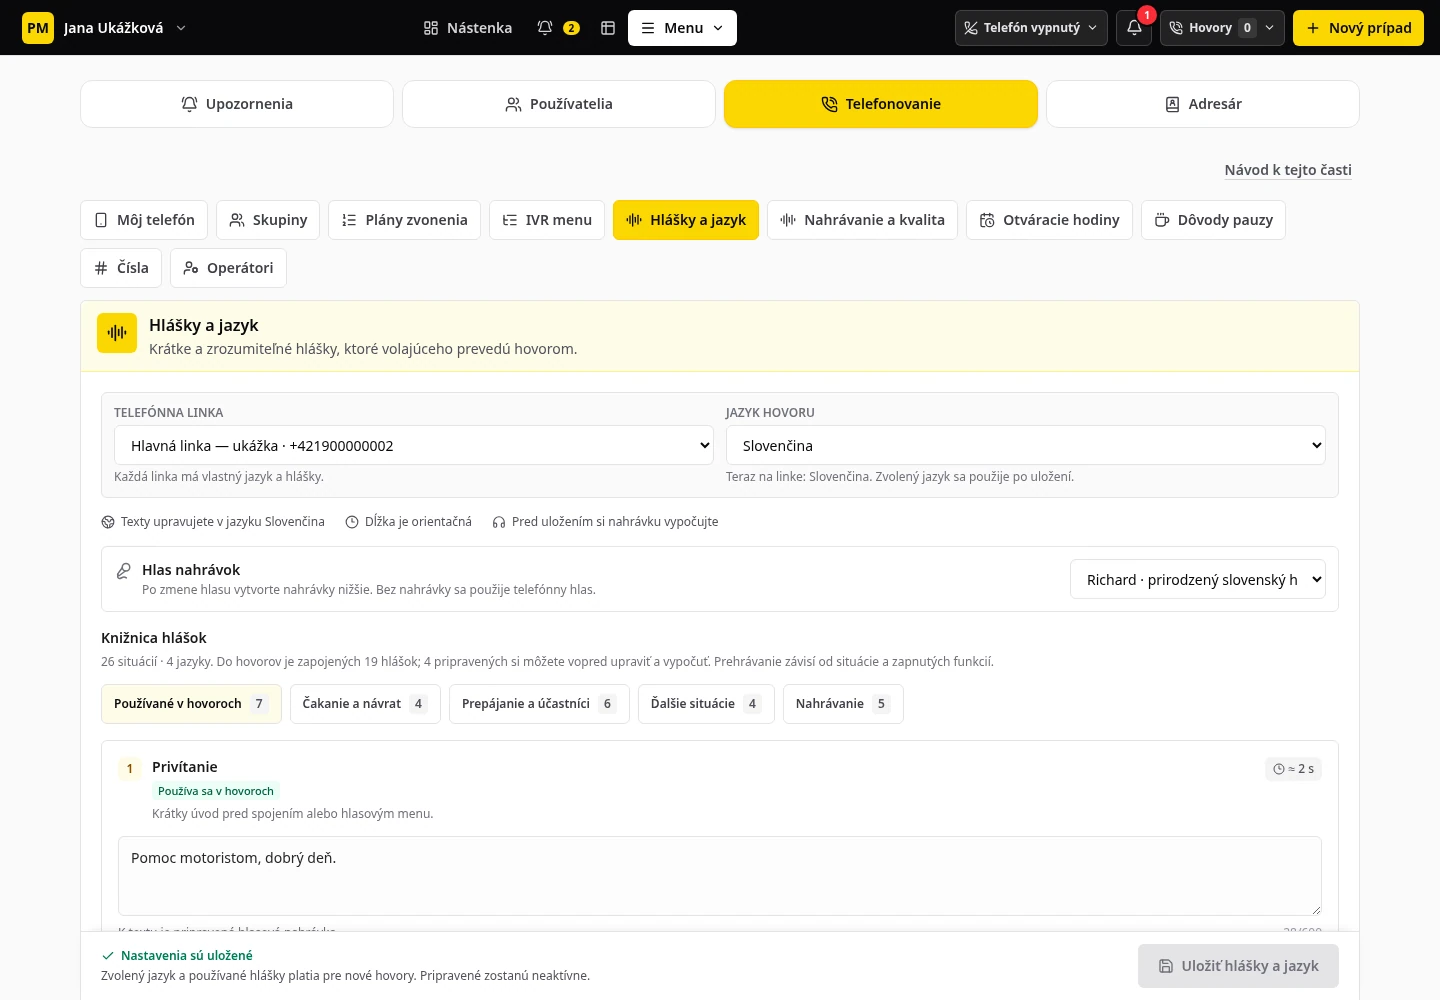
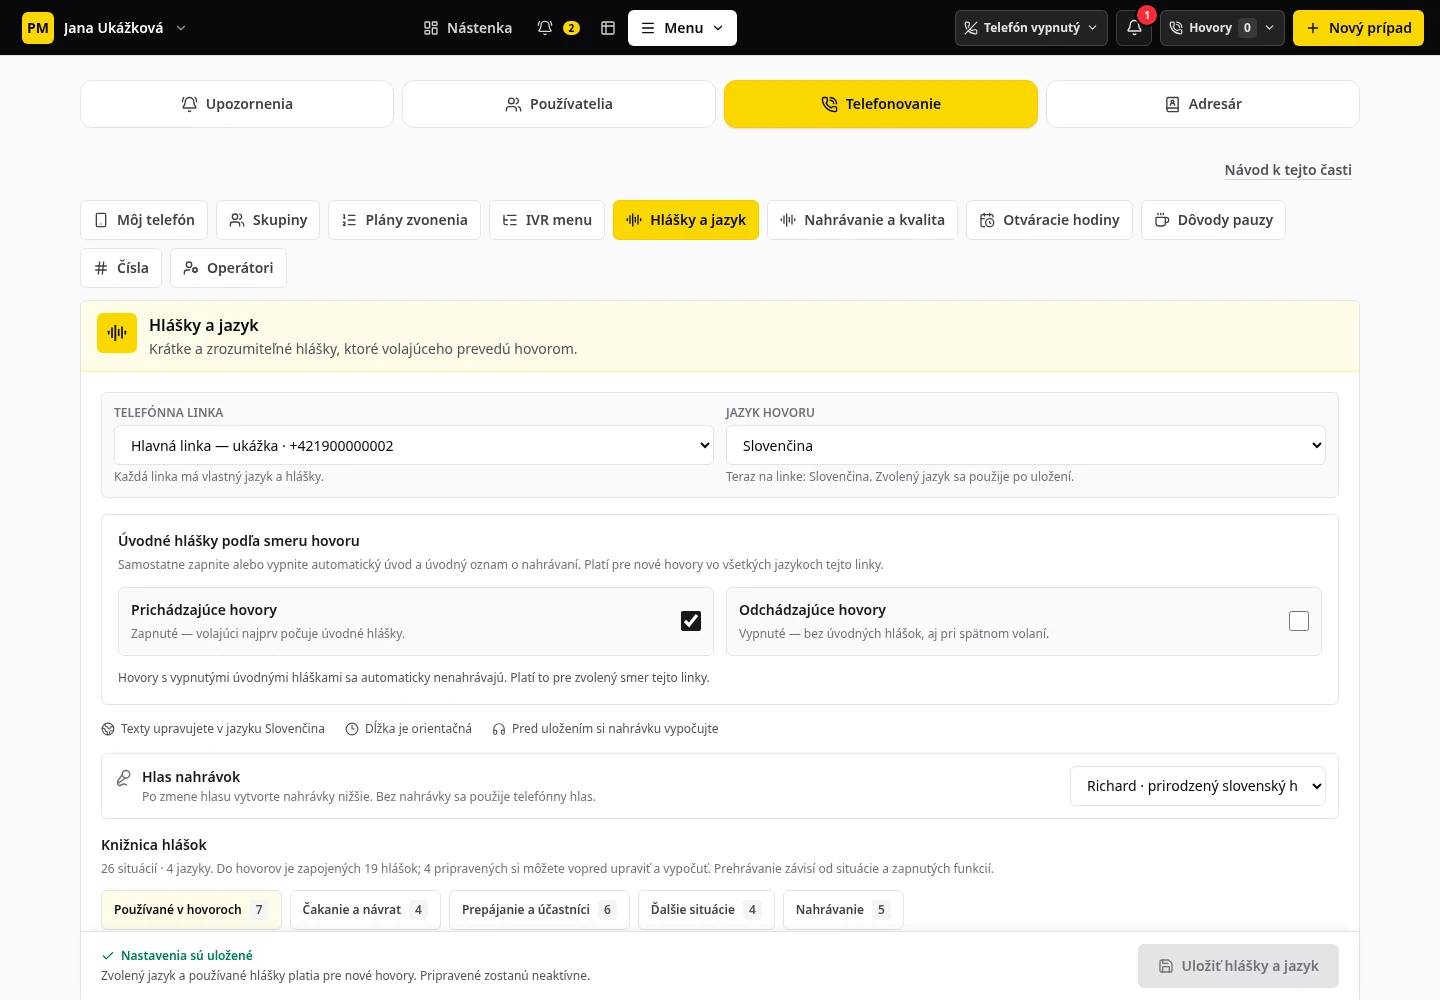
docs: align client guide with released call controls

diff --git a/src/content/guide/chapters.ts b/src/content/guide/chapters.ts
@@ -2,9 +2,9 @@ import type { GuideCategory, GuideChapter } from "./types";
 import { guideOperationsChapters } from "./operations";
 
 export const GUIDE_UPDATED_AT = "2026-09-11";
-export const GUIDE_CONTENT_VERSION = "1.0.0";
+export const GUIDE_CONTENT_VERSION = "1.0.1";
 // Application revision used to verify the documented behavior, not a live-state revision.
-export const GUIDE_SOURCE_REVISION = "518e9883a690b6428f8ba9f26d895552be6848cf";
+export const GUIDE_SOURCE_REVISION = "71fa9f81d3e0790e6f78283c8a4793913ab450e5";
 
 export const guideCategories: GuideCategory[] = [
   { id: "zaciname", title: "Začíname", description: "Prvý prístup, orientácia a pripravené pracovisko.", icon: "start" },
@@ -85,7 +85,7 @@ export const guideChapters: GuideChapter[] = [
     ], related: ["moj-telefon", "prijatie-a-zacatie-hovoru", "riesenie-problemov"], sources: ["src/components/dispatch/HeaderPhoneStatusMenu.tsx", "src/components/dispatch/MyPhonePanel.tsx", "src/components/dispatch/HeaderNotificationMenu.tsx", "src/components/dispatch/AttendanceModule.tsx"],
   },
   {
-    slug: "prijatie-a-zacatie-hovoru", title: "Prijatie a začatie hovoru", description: "Prijmite klienta, zavolajte z aplikácie a priraďte rozhovor k správnemu prípadu.", categoryId: "telefonovanie", audience: "all", minutes: 5,
+    slug: "prijatie-a-zacatie-hovoru", title: "Prijatie a začatie hovoru", description: "Prijmite klienta, zavolajte z aplikácie a priraďte rozhovor k správnemu prípadu.", categoryId: "telefonovanie", audience: "all", minutes: 6,
     keywords: ["prichádzajúci", "odchádzajúci", "prijať", "odmietnuť", "vytáčanie", "zavolať", "linka", "priradenie hovoru"], prerequisites: ["Telefón je pripravený na zvolený spôsob prijímania.", "Na automatické prichádzajúce ponuky ste Dostupný."],
     sections: [
       { id: "prichadzajuci-hovor", title: "Keď vám zvoní telefón", steps: [
@@ -97,14 +97,15 @@ export const guideChapters: GuideChapter[] = [
       { id: "odchadzajuci-hovor", title: "Ako zavolať klientovi", steps: [
         { id: "overit-ciel", title: "Vyberte správne telefónne číslo", text: "Použite volanie pri kontakte v prípade alebo adresári, prípadne zadajte číslo v telefóne. Pri viacerých kontaktoch overte, komu voláte. Pri ručnom zadaní použite aj medzinárodnú predvoľbu." },
         { id: "overit-linku", title: "Skontrolujte odchádzajúcu linku", text: "Pred volaním overte, z ktorého pracovného čísla voláte. Predvolenú Odchádzajúcu linku nastavíte v Môj telefón; toto číslo sa zobrazuje volanému." },
-        { id: "zavolat", title: "Spustite volanie a počkajte", text: "Stlačte volanie raz a sledujte jeho stav. Opätovným klikaním počas vytáčania neurychlíte spojenie. Pri odchádzajúcom aj spätnom hovore sa klientovi predstavte sami: automatický úvod sa neprehráva. Pri zapnutom nahrávaní môže pred rozhovorom zaznieť príslušný oznam o nahrávaní.", result: "Po prijatí druhou stranou sa zobrazuje aktívny hovor. Neúspešný pokus nie je potvrdením kontaktovania klienta." },
+        { id: "zavolat", title: "Spustite volanie a počkajte", text: "Stlačte volanie raz a sledujte jeho stav. Opätovným klikaním počas vytáčania neurýchlite spojenie. Pri odchádzajúcom aj spätnom hovore sa klientovi predstavte sami. Predvolene sú odchádzajúce úvodné hlášky vypnuté: neprehrá sa predstavenie ani oznam o nahrávaní a hovor sa automaticky nenahráva. Ak správca pre túto linku úvod zapol, po prijatí zaznie predstavenie a pri povolenom nahrávaní aj príslušný oznam.", result: "Po prijatí klientom a potvrdení zvukového spojenia začne rozhovor. Neúspešný pokus nie je potvrdením kontaktovania klienta." },
       ] },
+      { id: "priebeh-spojenia", title: "Vytáčanie a rozhovor majú odlišný čas", paragraphs: ["Pri odchádzajúcom hovore môže aplikácia postupne ukázať Pripájam telefón…, Vytáčam a Pripája sa zvuk…. Tieto stavy ešte nepotvrdzujú rozhovor s klientom. Aj Čakám na spojenie hovoru… znamená, že spojenie s druhou stranou zatiaľ nie je potvrdené.", "Čas pri hovore najprv meria pripájanie, vytáčanie alebo čakanie. Dĺžka rozhovoru sa počíta od potvrdeného spojenia zvuku medzi vami a klientom; pri prechode preto môže začať od nuly. Bežiaci čas pred spojením neznamená, že vás klient už počuje."], note: { tone: "info", title: "Sledujte stav aj zvuk", text: "Pri hláške Spojenie zvuku nepotvrdené nepovažujte klienta za úspešne kontaktovaného. Overte, či sa počujete, a výsledok zaznamenajte podľa skutočného priebehu." } },
       { id: "hovor-a-pripad", title: "Prepojte rozhovor s prípadom", steps: [
         { id: "najst-kartu", title: "Otvorte existujúci prípad alebo vytvorte nový", text: "Najprv overte, či už prípad existuje. Pri novej požiadavke použite vytvorenie prípadu z hovoru alebo Nový prípad." },
         { id: "priradit-hovor", title: "Potvrďte Priradiť k prípadu", text: "V sekcii Priradiť prichádzajúci hovor vyberte správny hovor a potvrďte priradenie. Samotná zhoda telefónneho čísla ho k otvorenej karte automaticky nepripojí.", result: "Hovor sa eviduje pri zvolenom prípade. Ak tlačidlo ešte čaká na zápis hovoru, chvíľu počkajte na sprístupnenie." },
       ], screenshotIds: ["case-detail"] },
       { id: "ukoncit-hovor", title: "Ukončite rozhovor a doplňte výsledok", paragraphs: ["Zhrňte dohodu a použite Zavesiť. Do prípadu alebo úlohy zapíšte výsledok a ďalší krok. Ak začne dopisovanie, dokončite záznam v tomto čase. Zavretie karty prípadu ani prepnutie obrazovky nenahrádza ukončenie hovoru."] },
-    ], related: ["pocas-hovoru", "pripad", "spatne-hovory"], sources: ["src/components/dispatch/PhoneBar.tsx", "src/components/dispatch/phone-bar-model.ts", "src/components/dispatch/CaseDetail.tsx", "src/components/dispatch/DispatchConsole.tsx", "src/components/dispatch/MyPhonePanel.tsx"],
+    ], related: ["pocas-hovoru", "pripad", "spatne-hovory", "hlasky-a-nahravanie"], sources: ["src/components/dispatch/PhoneBar.tsx", "src/components/dispatch/phone-bar-model.ts", "src/components/dispatch/CaseDetail.tsx", "src/components/dispatch/DispatchConsole.tsx", "src/components/dispatch/MyPhonePanel.tsx", "src/lib/telephony/active-calls-model.ts", "src/lib/telephony/announcements.ts", "src/server/telephony/active-calls.ts", "src/server/telephony/state/recording.ts"],
   },
   {
     slug: "pocas-hovoru", title: "Čo možno robiť počas hovoru", description: "Rozdiel medzi mikrofónom, podržaním, čakárňou a prepojením kolegovi.", categoryId: "telefonovanie", audience: "all", minutes: 7,
@@ -156,13 +157,13 @@ export const guideChapters: GuideChapter[] = [
         { id: "prevziat-poziadavku", title: "Stlačte Prevziať", text: "Tým oznámite, že sa požiadavke venujete vy.", result: "Požiadavka je prevzatá a zobrazuje sa zodpovednosť. Táto akcia ešte nevytáča telefónne číslo." },
       ] },
       { id: "kontaktovat-klienta", title: "Zavolajte a zaznamenajte výsledok", steps: [
-        { id: "zavolat-spat", title: "Stlačte Zavolať", text: "Overte cieľ a sledujte vytáčanie. Ak systém ponúkne overené náhradné číslo, prečítajte si pôvodné aj náhradné číslo a potvrďte iba správny kontakt." },
+        { id: "zavolat-spat", title: "Stlačte Zavolať", text: "Overte cieľ a sledujte vytáčanie. Ak systém ponúkne overené náhradné číslo, prečítajte si pôvodné aj náhradné číslo a potvrďte iba správny kontakt. Spätné volanie používa odchádzajúce hlášky zvolenej linky: predvolene je úvod aj automatické nahrávanie vypnuté. Po spojení sa klientovi predstavte." },
         { id: "zapisat-vysledok", title: "Zapíšte výsledok rozhovoru", text: "Do prípadu alebo úlohy zaznamenajte, čo klient potrebuje a čo ste dohodli. Pri neúspešnom pokuse zachovajte potrebu ďalšieho kontaktu a dohodnite termín opakovania." },
         { id: "oznacit-vybavene", title: "Po dokončení zvoľte Vybavené", text: "Vybavenie potvrďte až po tom, čo je požiadavka vyriešená.", result: "Požiadavka sa uzavrie. Samotné začatie volania nie je dôkazom, že ste klienta zastihli alebo mu zabezpečili pomoc." },
       ] },
       { id: "zrusit-alebo-nechat", title: "Kedy použiť Zrušiť", paragraphs: ["Zrušiť použite pre požiadavku, ktorú už netreba vybavovať, napríklad po overení duplicity alebo po potvrdení, že klient pomoc nepotrebuje. Dôvod zapíšte k príslušnej práci, aby ďalšia služba vedela, prečo sa už nevolá.", "Ak požiadavku prevzal kolega, rešpektujte uvedenú zodpovednosť. Pri potrebe odovzdania sa dohodnite; nepovažujte sivé tlačidlo za chybu len preto, že práve nemôžete zasiahnuť do cudzej položky."] },
       { id: "nepouzitelne-cislo", title: "Neznáme alebo nepoužiteľné číslo", paragraphs: ["Na skryté, neúplné alebo jednosmerné číslo sa nemusí dať zavolať späť. Aplikácia môže volanie zablokovať a vyžiadať overený náhradný kontakt. Číslo nedopĺňajte odhadom.", "Overený náhradný kontakt sa potvrdzuje pred volaním. Pôvodné číslo zostáva v histórii. Ak sa správny kontakt nedá získať, zaznamenajte túto prekážku a odovzdajte požiadavku podľa pravidiel prevádzky." ] },
-    ], related: ["cakaren", "prijatie-a-zacatie-hovoru", "ulohy-a-poznamky"], sources: ["src/components/dispatch/CallbackQueuePanel.tsx", "src/lib/telephony/callback-target-client.ts", "src/lib/telephony/callback-queue.ts"],
+    ], related: ["cakaren", "prijatie-a-zacatie-hovoru", "ulohy-a-poznamky"], sources: ["src/components/dispatch/CallbackQueuePanel.tsx", "src/lib/telephony/callback-target-client.ts", "src/lib/telephony/callback-queue.ts", "src/lib/telephony/announcements.ts", "src/server/telephony/state/recording.ts"],
   },
   {
     slug: "pauza-a-zastupovanie", title: "Pauza, zastupovanie a dopisovanie", description: "Odíďte na prestávku so správnym zastupovaním a po návrate sa vedome sprístupnite.", categoryId: "telefonovanie", audience: "all", minutes: 6,
@@ -361,14 +362,15 @@ export const guideChapters: GuideChapter[] = [
     ], related: ["cesta-hovoru", "plany-zvonenia", "hlasky-a-nahravanie", "spatne-hovory"], sources: ["src/components/dispatch/settings/NumbersPanel.tsx", "src/components/dispatch/settings/BusinessHoursEditor.tsx", "src/components/dispatch/settings/business-hours-model.ts", "src/components/dispatch/settings/IvrMenuEditor.tsx", "src/components/dispatch/settings/ivr-menu-model.ts", "src/server/telephony/state/transitions.ts"],
   },
   {
-    slug: "hlasky-a-nahravanie", title: "Hlášky, jazyk a nahrávanie", description: "Upravte to, čo klient počuje, a rozlíšte oznámenie od skutočného zapnutia nahrávania.", categoryId: "nastavenia", audience: "manager", minutes: 7,
-    keywords: ["hlášky", "jazyk", "hlas", "nahrávka", "nahrávanie", "prepis", "kvalita", "oznámenie", "hudba"], prerequisites: ["Rola Manažér alebo Admin na ukladanie zmien.", "Vybraná telefónna linka a dohodnuté znenie hlášok.", "Pri nastavení nahrávania údaje a rozhodnutia prevádzkovateľa požadované formulárom."],
+    slug: "hlasky-a-nahravanie", title: "Hlášky, jazyk a nahrávanie", description: "Upravte to, čo klient počuje, a rozlíšte oznámenie od skutočného zapnutia nahrávania.", categoryId: "nastavenia", audience: "manager", minutes: 8,
+    keywords: ["hlášky", "jazyk", "hlas", "nahrávka", "nahrávanie", "prepis", "kvalita", "oznámenie", "hudba", "úvod", "prichádzajúce", "odchádzajúce", "spätné volanie"], prerequisites: ["Rola Manažér alebo Admin na ukladanie zmien.", "Vybraná telefónna linka a dohodnuté znenie hlášok.", "Pri nastavení nahrávania údaje a rozhodnutia prevádzkovateľa požadované formulárom."],
     sections: [
       { id: "upravit-hlasky", title: "Vyberte linku a jazyk", steps: [
         { id: "otvorit-hlasky", title: "Otvorte Nastavenia → Telefonovanie → Hlášky a jazyk", text: "Vyberte Telefónna linka. Každá linka má vlastné hlášky a jazyk; pri návrate na hlavnú linku skontrolujte aj jej nastavenie." },
         { id: "vybrat-jazyk", title: "Vyberte Jazyk hovoru", text: "Rozhranie uvádza, ktorý jazyk je práve uložený a v ktorom jazyku upravujete texty. Dostupné sú slovenčina, čeština, angličtina a nemčina." },
         { id: "upravit-text-hlasky", title: "Nájdite situáciu v Knižnica hlášok", text: "Upravte text pre danú situáciu. Píšte stručne a povedzte klientovi konkrétnu možnosť: čakať, zvoliť klávesu alebo očakávať spätný hovor. Čísla a sľuby musia zodpovedať nastaveniu." },
       ], screenshotIds: ["announcements"] },
+      { id: "uvodne-hlasky-podla-smeru", title: "Úvod nastavte zvlášť pre každý smer hovoru", paragraphs: ["V časti Úvodné hlášky podľa smeru hovoru sú dva nezávislé prepínače. Platí vždy uložená voľba konkrétnej linky; predvolené hodnoty v tabuľke nemusia byť vaším aktuálnym nastavením."], table: { headers: ["Prepínač", "Predvolene", "Čo ovláda"], rows: [["Prichádzajúce hovory", "Zapnuté", "Privítanie klienta a pri povolenom nahrávaní oznam pred záznamom."], ["Odchádzajúce hovory", "Vypnuté", "Predstavenie služby a prípadný oznam o nahrávaní po prijatí. Platí aj pre spätné volania."]] }, bullets: ["Vypnutý úvod znamená, že sa v danom smere neprehrá predstavenie ani úvodný oznam a nové hovory sa automaticky nenahrávajú, aj keď Nahrávanie a kvalita daný smer povoľuje.", "Zapnutý úvod umožní príslušné hlášky. Na automatické nahrávanie treba zároveň povolenie a pripravenosť v Nahrávanie a kvalita a dokončený oznam pred záznamom.", "Prepínače sú spoločné pre všetky jazyky vybranej linky. Nemenia IVR, hudbu pri čakaní a podržaní ani oznamy pri prepájaní a zmene účastníkov.", "Zmenu potvrďte cez Uložiť hlášky a jazyk. Použije sa na nové hovory; prebiehajúci hovor pokračuje s nastavením zo svojho začiatku."], note: { tone: "important", title: "Vypnutím úvodu meníte aj automatické nahrávanie", text: "Pred zmenou overte požadovaný postup prevádzky. Ak potrebujete automatický záznam odchádzajúcich alebo spätných hovorov, nestačí povoliť ich nahrávanie: na danej linke musí byť zapnutý aj odchádzajúci úvod." } },
       { id: "vypocut-a-ulozit", title: "Vypočujte náhľad a uložte výsledok", steps: [
         { id: "vytvorit-hlas", title: "Podľa dostupnosti vytvorte hlasovú nahrávku", text: "Ak je generovanie pripojené, použite ovládanie pri hláške. Po zmene hlasu treba vytvoriť nahrávky znova. Ak generovanie nie je dostupné, používané texty bez nahrávky prečíta telefónny hlas." },
         { id: "vypocut-hlasku", title: "Použite Vypočuť hlášku", text: "Overte výslovnosť, jazyk, zrozumiteľnosť a správne klávesy. Dĺžka uvedená v rozhraní je orientačná." },
@@ -376,12 +378,12 @@ export const guideChapters: GuideChapter[] = [
       ] },
       { id: "pripravena-hlaska", title: "Pripravená hláška ešte nemusí zaznieť", paragraphs: ["Knižnica rozlišuje hlášky zapojené do hovorov a pripravené hlášky. Pripravenú hlášku môžete upraviť, vypočuť a uložiť vopred; tým sa jej použitie v hovore samo nezapne.", "Rovnako uloženie textu „hovor je nahrávaný“ nezapína nahrávanie. Prehrávanie závisí od situácie, povolených funkcií a nastavenia. Po uložení skúšajte konkrétnu vetvu hovoru, v ktorej má daná hláška zaznieť."] },
       { id: "politika-nahravania", title: "Skutočné nahrávanie nastavujete osobitne", paragraphs: ["Nastavenia → Telefonovanie → Nahrávanie a kvalita určuje, či sa hovory nahrávajú a či sa pripravuje prepis, AI súhrn alebo návrh hodnotenia. Táto časť ukazuje aj Pripravenosť zapojenia; uložená voľba nemusí znamenať, že je všetko technicky pripravené."], steps: [
-        { id: "vybrat-rozsah-nahravania", title: "Skontrolujte rozsah", text: "Podľa schváleného postupu prevádzky nastavte Nahrávať hovory a rozsah Prichádzajúce hovory / Odchádzajúce hovory. Prepis potrebuje nahrávanie, AI súhrn prepis a návrh hodnotenia AI analýzu." },
+        { id: "vybrat-rozsah-nahravania", title: "Skontrolujte rozsah", text: "Podľa schváleného postupu prevádzky nastavte Nahrávať hovory a rozsah Prichádzajúce hovory / Odchádzajúce hovory. Na každej používanej linke zároveň skontrolujte úvodné hlášky pre príslušný smer: vypnutý úvod blokuje automatické nahrávanie nových hovorov. Prepis potrebuje nahrávanie, AI súhrn prepis a návrh hodnotenia AI analýzu." },
         { id: "doplnit-udaje-nahravania", title: "Vyplňte údaje prevádzkovateľa a uchovanie", text: "Doplňte požadované kontakty, informácie pre účastníkov, účely a lehoty podľa rozhodnutia prevádzkovateľa. Vzorové texty nenahrádzajú jeho vlastné údaje." },
         { id: "ulozit-nahravanie", title: "Prečítajte požadované potvrdenie a uložte", text: "Skontrolujte súlad s hláškami linky. Ak je všetko pripravené a formulár vyžaduje potvrdenie správnosti, potvrďte ho a použite Uložiť nahrávanie a kvalitu.", result: "Rozhranie zobrazí uloženú verziu alebo dôvod, prečo zmena nemôže byť použitá." },
       ], screenshotIds: ["recording"] },
-      { id: "nahravanie-v-hovore", title: "Čo sledovať pri konkrétnom hovore", paragraphs: ["Pri hovore sledujte zobrazený stav nahrávania a dostupné ovládanie. Chýbajúca nahrávka môže súvisieť s rozsahom, pripravenosťou, konkrétnym priebehom alebo limitom; z textu hlášky ju nemožno vyvodiť.", "V Hlášky a jazyk je aj prepínač Hlášky o zmenách nahrávania pre oznámenie vypnutia a obnovenia. Jeho vypnutie samo nevypína úvodný oznam ani politiku nahrávania.", "Vypnutie nového nahrávania neodstraňuje staršie záznamy. Ich dostupnosť riadia oprávnenia a uchovanie. Prepis, súhrn a návrh hodnotenia treba posúdiť v kontexte hovoru; automatický návrh nie je konečné rozhodnutie o práci operátora."] },
-    ], related: ["cisla-hodiny-a-ivr", "plany-zvonenia", "reporty-a-pouzivatelia"], sources: ["src/components/dispatch/settings/AnnouncementsPanel.tsx", "src/components/dispatch/settings/RecordingPolicyPanel.tsx", "src/components/dispatch/PhoneBar.tsx", "src/components/dispatch/settings/announcements-model.ts"],
+      { id: "nahravanie-v-hovore", title: "Čo sledovať pri konkrétnom hovore", paragraphs: ["Pri hovore sledujte zobrazený stav nahrávania a dostupné ovládanie. Chýbajúca nahrávka môže súvisieť s vypnutým úvodom daného smeru, rozsahom, pripravenosťou, konkrétnym priebehom alebo limitom; z textu hlášky ju nemožno vyvodiť.", "V Hlášky a jazyk je aj samostatný prepínač Hlášky o zmenách nahrávania pre oznámenie vypnutia a obnovenia. Tento prepínač riadi iba stavové oznámenia. Úvodný oznam a možnosť automatického záznamu závisia aj od prepínača smeru hovoru opísaného vyššie.", "Vypnutie nového nahrávania neodstraňuje staršie záznamy. Ich dostupnosť riadia oprávnenia a uchovanie. Prepis, súhrn a návrh hodnotenia treba posúdiť v kontexte hovoru; automatický návrh nie je konečné rozhodnutie o práci operátora."] },
+    ], related: ["cisla-hodiny-a-ivr", "plany-zvonenia", "reporty-a-pouzivatelia", "prijatie-a-zacatie-hovoru"], sources: ["src/components/dispatch/settings/AnnouncementsPanel.tsx", "src/components/dispatch/settings/RecordingPolicyPanel.tsx", "src/components/dispatch/PhoneBar.tsx", "src/components/dispatch/settings/announcements-model.ts", "src/lib/telephony/announcements.ts", "src/server/telephony/state/recording.ts"],
   },
   ...guideOperationsChapters,
 ];

diff --git a/docs/client-guide.md b/docs/client-guide.md
@@ -46,7 +46,7 @@ Obsah bol overený podľa zdrojového kódu a izolovaného rozhrania. Výroba pr
 
 ## Príprava pre AI pomocníka
 
-`buildGuideKnowledge` v `src/content/guide/knowledge.ts` vytvára 121 záznamov po sekciách z presne toho istého obsahu, ktorý čitateľ vidí. Každý záznam obsahuje stabilné ID, odkaz na sekciu, kroky s odkazmi, publikum, predpoklady, text, kľúčové slová a význam screenshotov. Celý dokument má verziu schémy a obsahu, dátum, revíziu overeného zdroja a `dataKind: documentation`.
+`buildGuideKnowledge` v `src/content/guide/knowledge.ts` vytvára 123 záznamov po sekciách z presne toho istého obsahu, ktorý čitateľ vidí. Každý záznam obsahuje stabilné ID, odkaz na sekciu, kroky s odkazmi, publikum, predpoklady, text, kľúčové slová a význam screenshotov. Celý dokument má verziu schémy a obsahu, dátum, revíziu overeného zdroja a `dataKind: documentation`.
 
 V aplikácii poskytuje tieto údaje autentifikované `GET /api/guide/knowledge` s `Cache-Control: private, no-store`. Samostatné vydanie obsahuje rovnaký export v `knowledge.json`. Hodnota `audience` pomáha vysvetľovať potrebné roly; nie je náhradou serverovej autorizácie akcie. Tento export neobsahuje aktuálne nastavenia ani stav používateľov.
 
